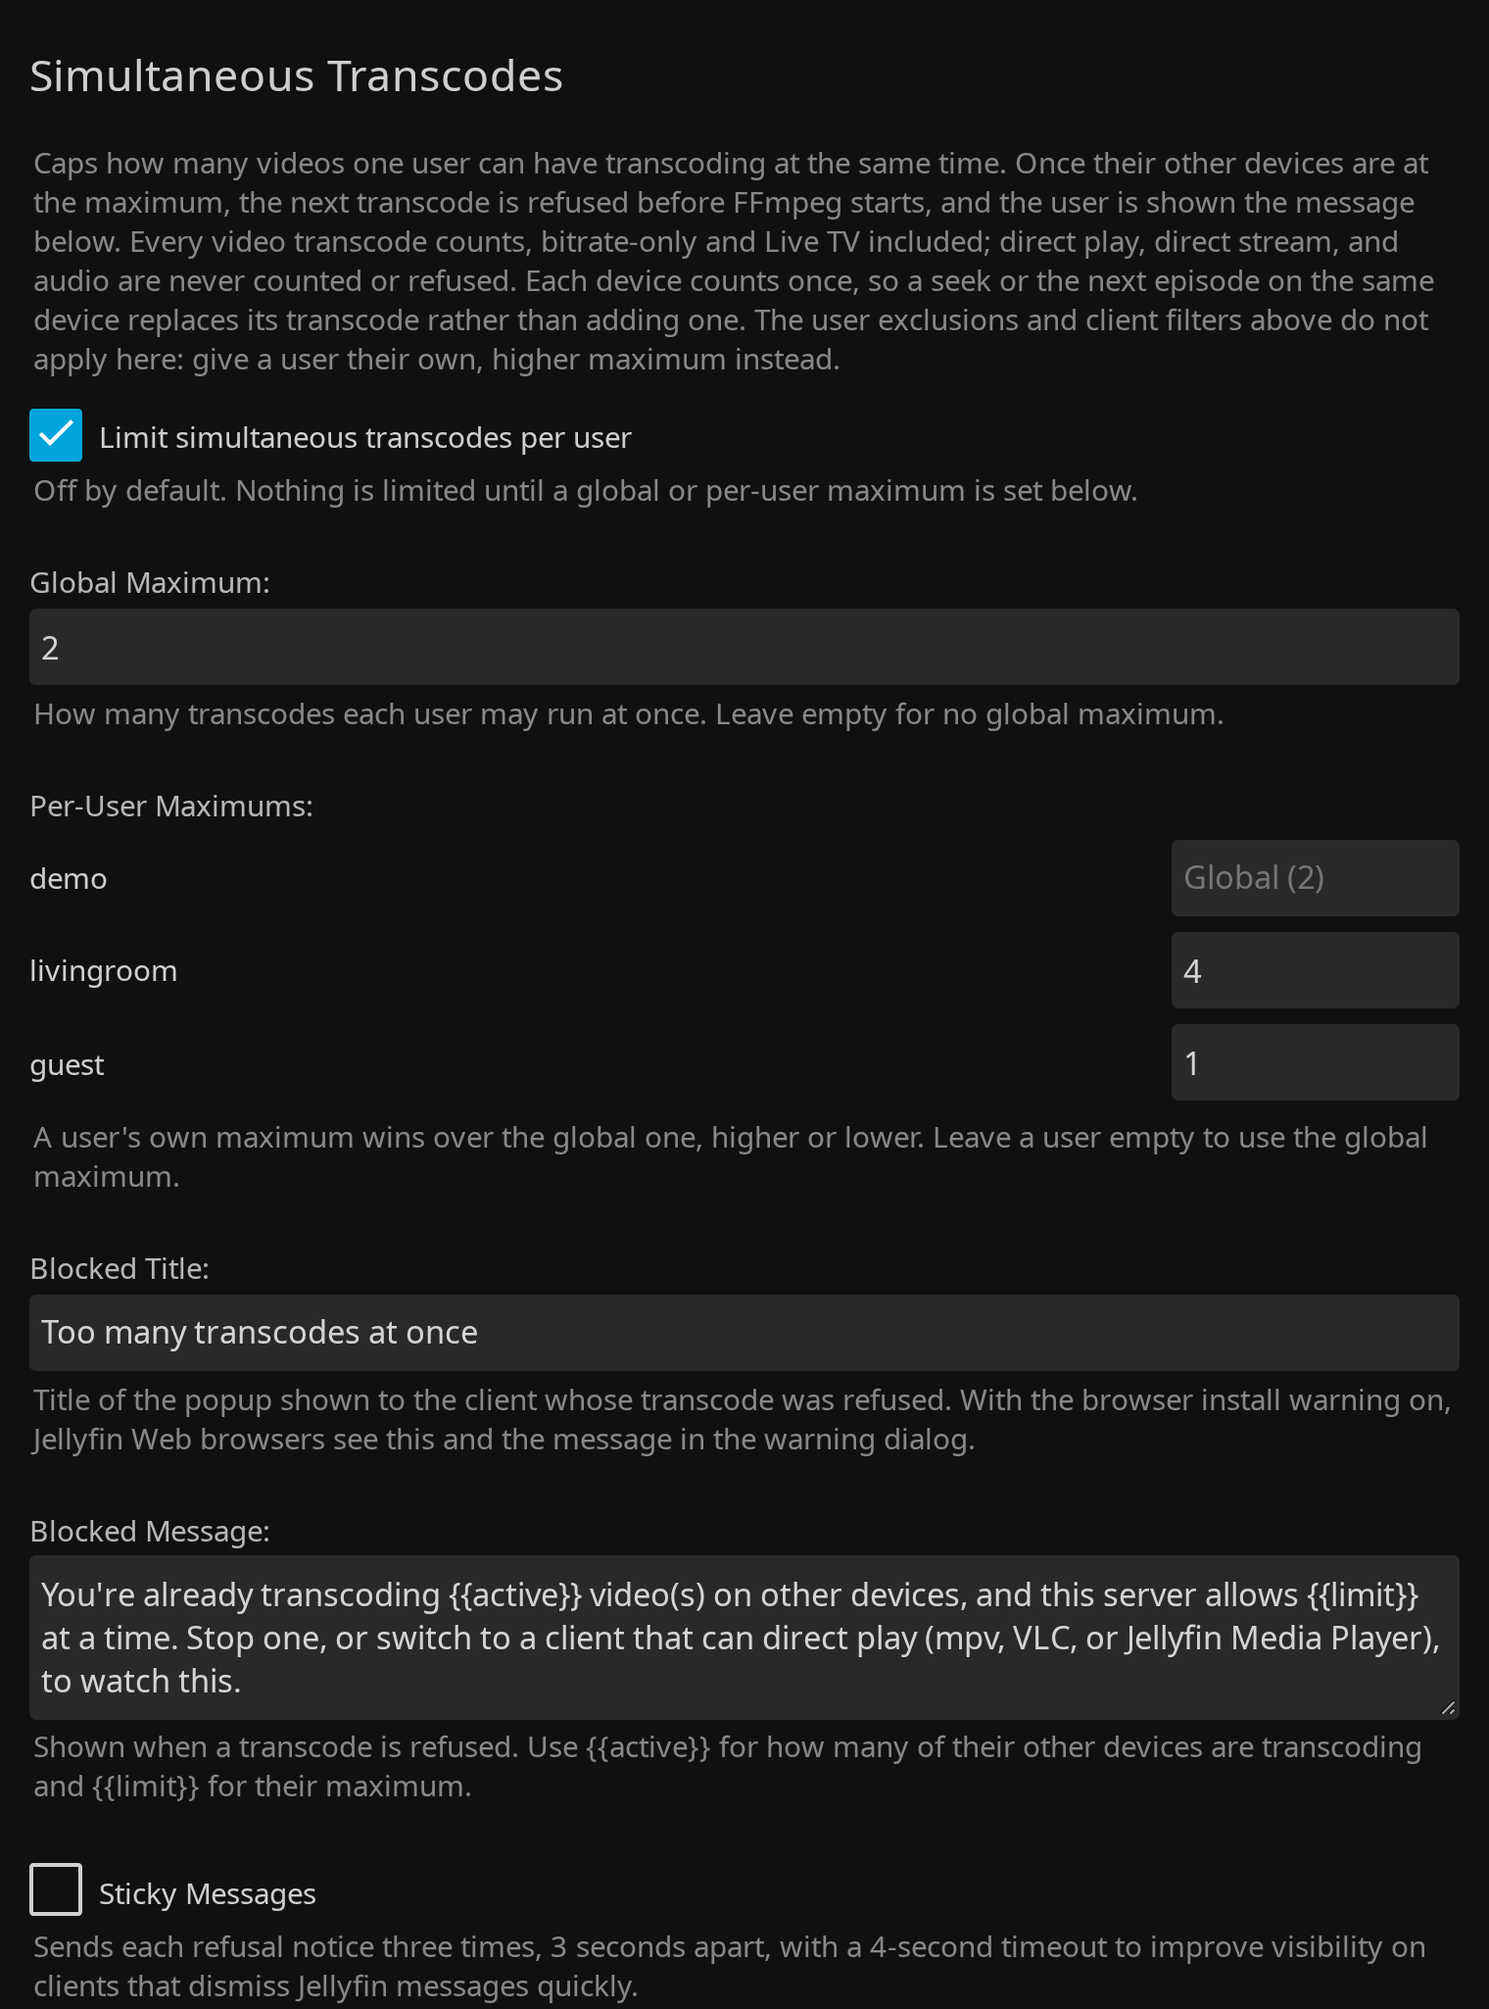
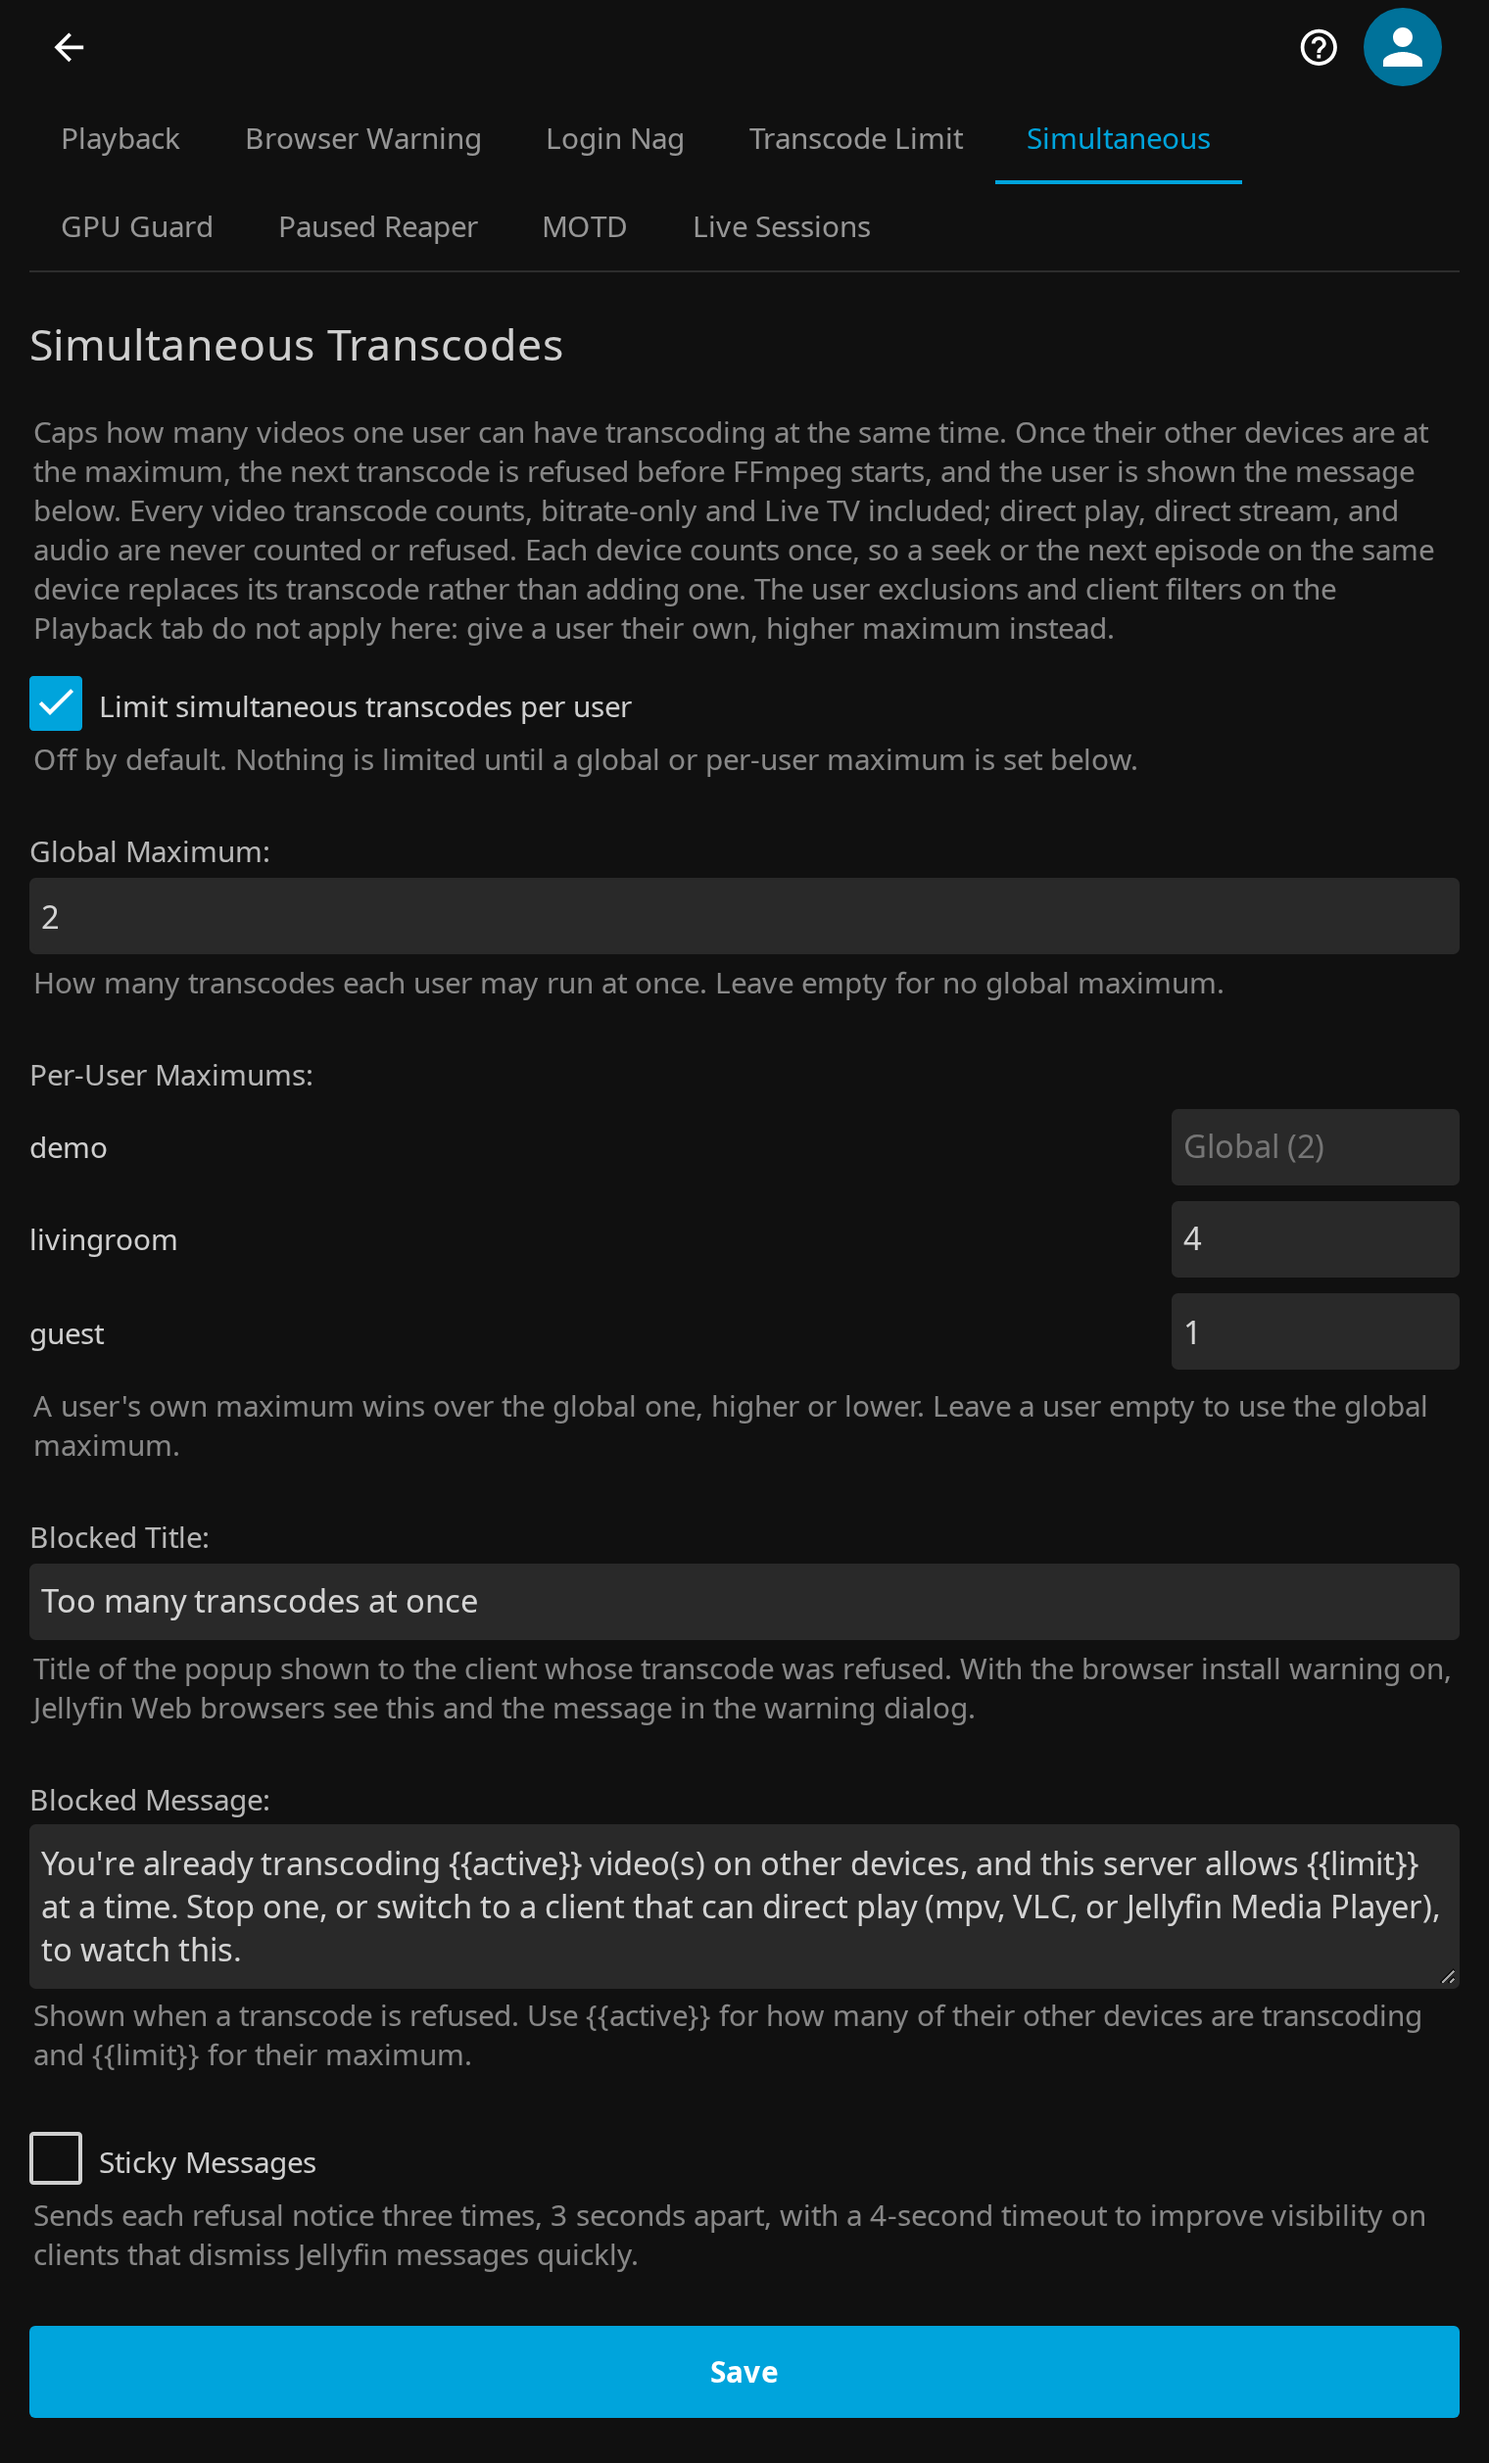
docs(screenshots): one shot per settings tab
Recaptured with the jellyfin-plugins harness, which now opens a shot's tab
before measuring it. Each shot starts at the top of the page, so the tab
bar shows which tab it is, and runs to Save.

The browser install warning's settings shot comes from the harness now
instead of being captured by hand, which also brings its description up to
date; the warning dialog shot is still hand-captured. The live session
monitor used to appear in the transcode limit shot, so it gets its own,
and so does the MOTD, which had none.

diff --git a/README.md b/README.md
@@ -56,10 +56,10 @@ A Jellyfin plugin that intelligently nags users when they're transcoding due to 
 </p>
 
 <p align="center">
-  <img src="docs/images/transcode-guard-transcode-limit.png" alt="Transcode Guard transcode limit settings, user exclusions, and live session monitor in the Jellyfin dashboard" width="880" />
+  <img src="docs/images/transcode-guard-transcode-limit.png" alt="Transcode Guard transcode limit settings in the Jellyfin dashboard" width="880" />
 </p>
 <p align="center">
-  <em>The transcode limit, user exclusions, and the live session monitor</em>
+  <em>The transcode limit and the message a blocked user sees</em>
 </p>
 
 <p align="center">
@@ -81,6 +81,20 @@ A Jellyfin plugin that intelligently nags users when they're transcoding due to 
 </p>
 <p align="center">
   <em>The paused transcode reaper, its warning, and its own exclusion list</em>
+</p>
+
+<p align="center">
+  <img src="docs/images/transcode-guard-motd.png" alt="Transcode Guard message of the day settings in the Jellyfin dashboard" width="880" />
+</p>
+<p align="center">
+  <em>The message of the day, with its own exclusions and client filters</em>
+</p>
+
+<p align="center">
+  <img src="docs/images/transcode-guard-live-sessions.png" alt="Transcode Guard live session monitor listing two transcoding sessions in the Jellyfin dashboard" width="880" />
+</p>
+<p align="center">
+  <em>The live session monitor, showing who the nag would fire on right now</em>
 </p>
 
 ## What It Does
